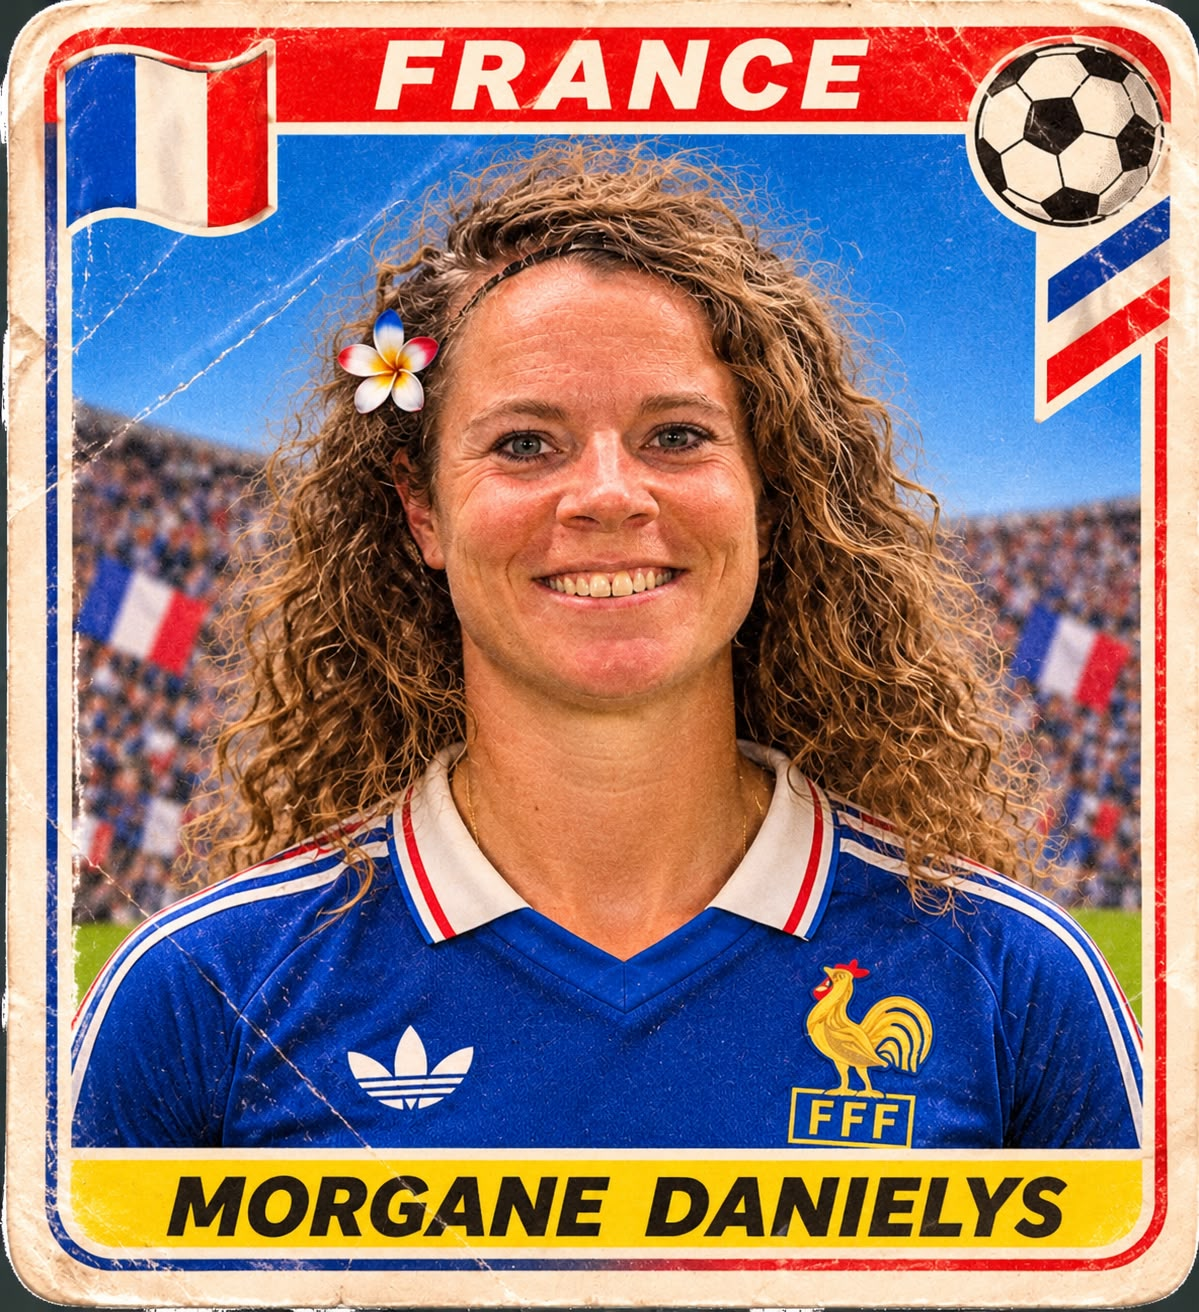
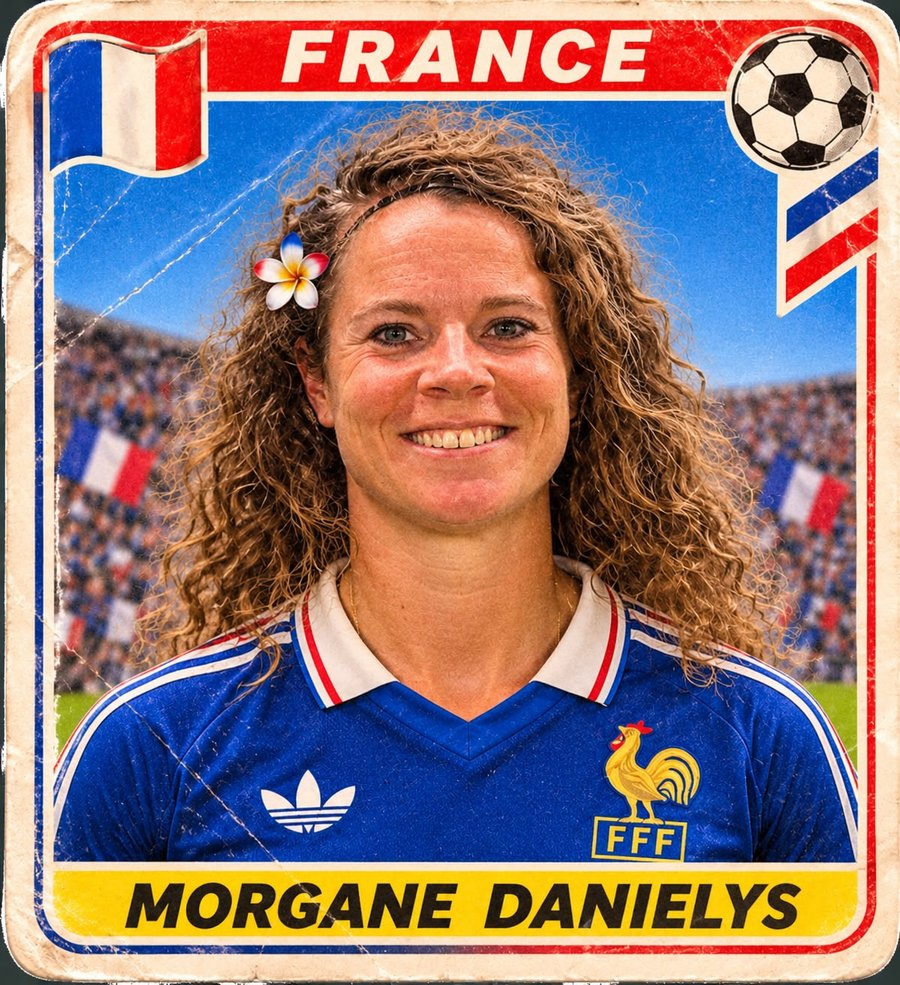
Portraits de Ben, Godefroy et Morgane reduits a 900 px

Changed region(s): [[0.6533, 0.7614, 0.7778, 0.8832]]

diff --git a/index.html b/index.html
@@ -2261,7 +2261,7 @@
   <div class="mhf-dr-body" id="mhf-dr-body"></div>
 </div>
 
-<footer>Divodurum &mdash; <button class="footer-link-btn" id="footer-reglement-btn">Règlement 26/27</button> &mdash; <button class="footer-link-btn" id="footer-coef-btn" style="display:none">Coefficient joueurs</button><span id="footer-pronos-wrap" style="display:none"> &mdash; <button class="footer-link-btn" id="footer-pronos-btn">Pronos : désactivés</button></span> &mdash; 17/11/2026 - 11:01</footer>
+<footer>Divodurum &mdash; <button class="footer-link-btn" id="footer-reglement-btn">Règlement 26/27</button> &mdash; <button class="footer-link-btn" id="footer-coef-btn" style="display:none">Coefficient joueurs</button><span id="footer-pronos-wrap" style="display:none"> &mdash; <button class="footer-link-btn" id="footer-pronos-btn">Pronos : désactivés</button></span> &mdash; 18/11/2026 - 09:24</footer>
 
 <script>
 
